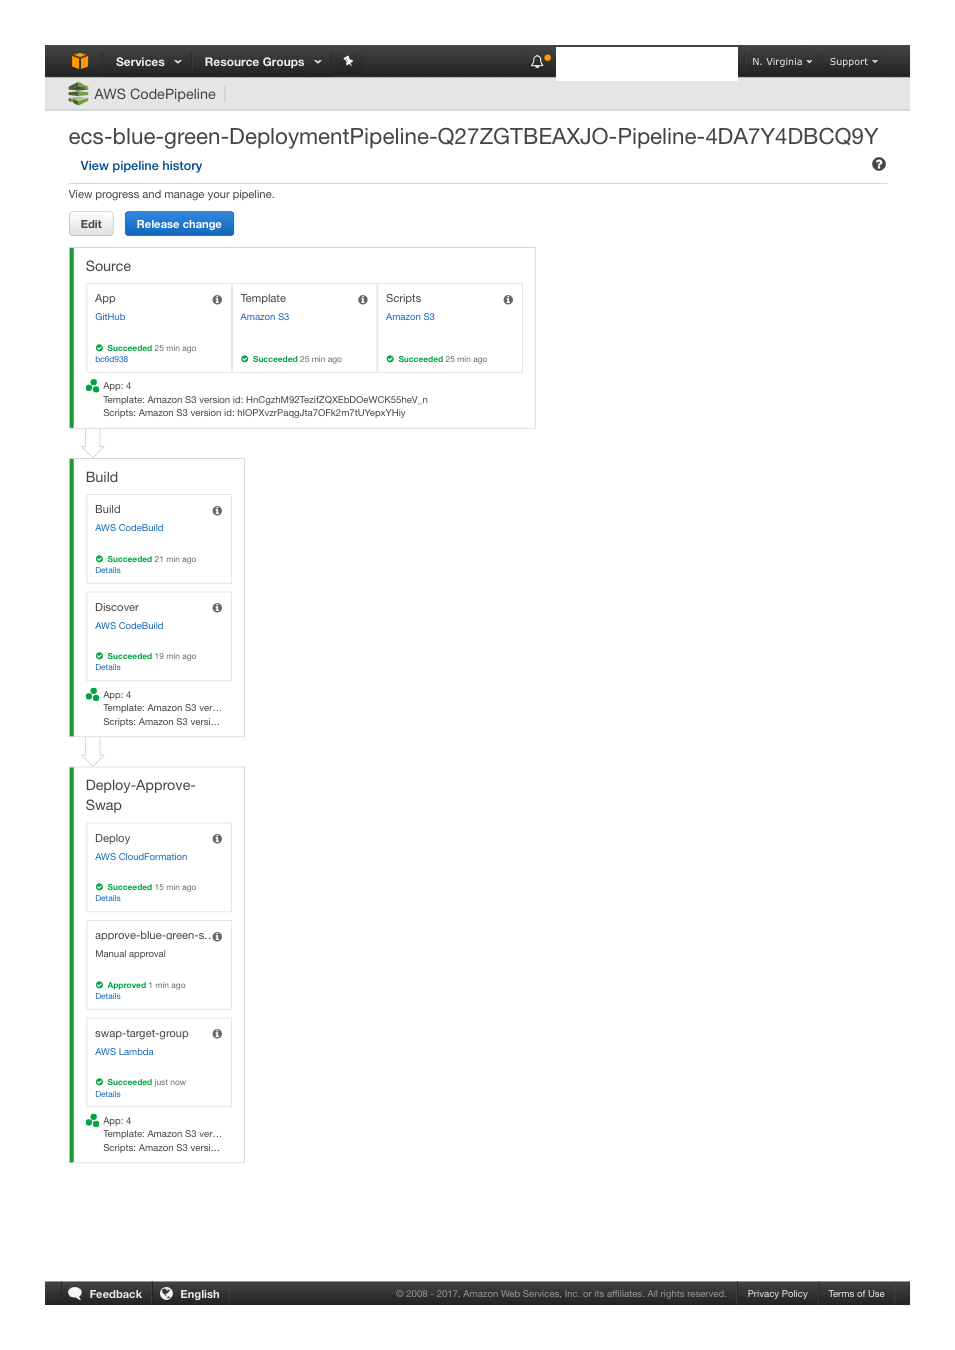
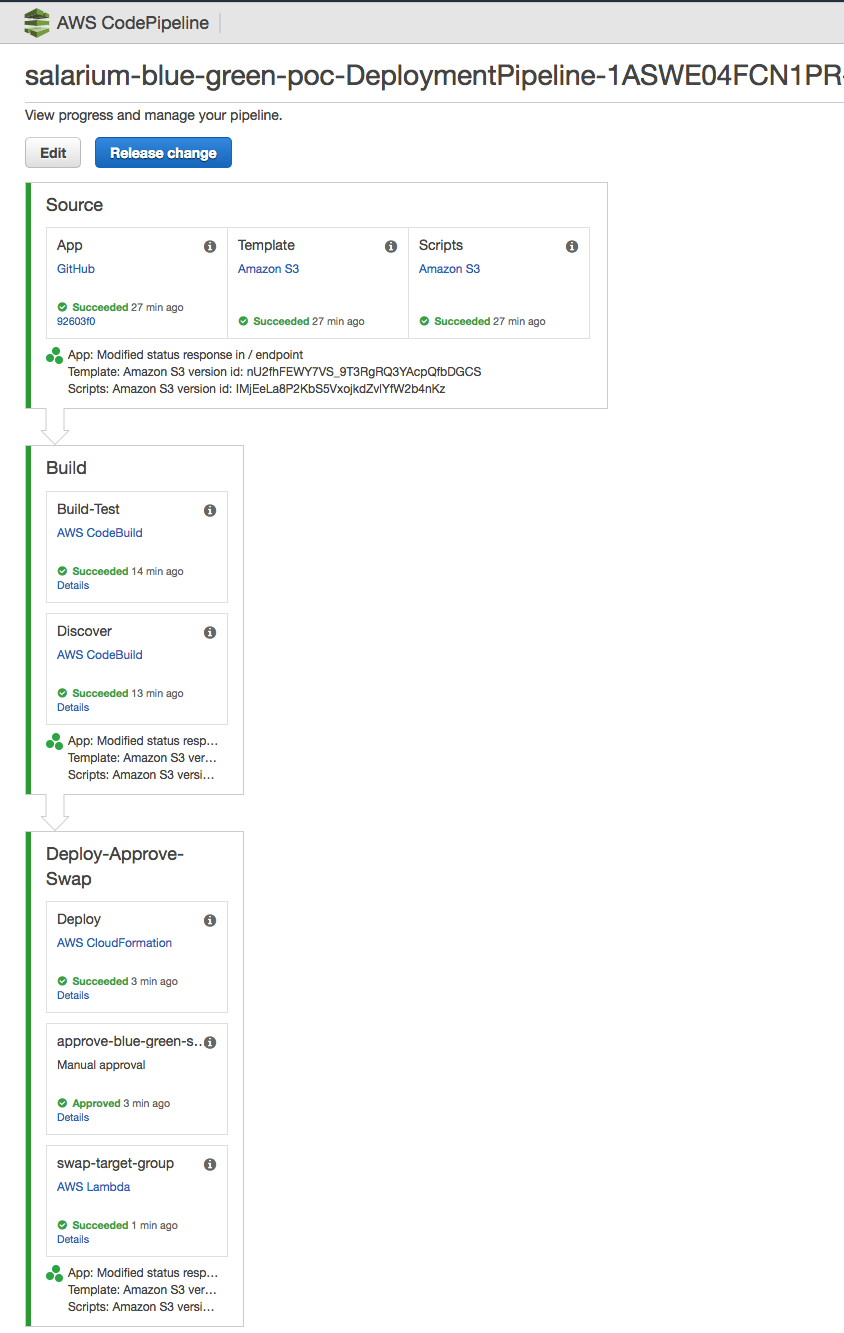
Added Unit Tests to Build stage

diff --git a/scripts/deployer.py b/scripts/deployer.py
@@ -17,7 +17,7 @@ elb_client = boto3.client('elbv2')
 describe_elb_response = None
 
 def handler():
-    """ Main handler as an entry point of code. Handler controls the sequence of methods to call.No inputs required. 
+    """ Main handler as an entry point of code. Handler controls the sequence of methods to call.No inputs required.
     As this runs in AWS CodeBuild, the script gets all the values from the environment variables in codebuild.
         1. Retrieve artifact (build.json) from the previous stage (CodeBuild phase, which builds application container images)
         2. Check if the load balancer exists. Name of the ELB is fed through environment variable by the pipeline.
@@ -50,7 +50,7 @@ def check_elb_exists():
 
                 Raises: None, as we dont want to stop script execution. If the code reaches exception block, it means
                 that the load balancer does not exists.
-                
+
                 Returns:
                     Boolean, True if Load Balancer Exists, False, if Load balancer does not exists
 
@@ -73,7 +73,7 @@ def find_beta_targetgroup():
                     beta_sha: Sha or the image id running on target group at port 8080
                     live_identifier : tag key value of the target group, running on port 80 with KeyName as "Identifier"
                     live_sha: Sha or the image id running on target group at port 80
-                    
+
 
                 Raises:
                     Exception: Any exception thrown by handler
@@ -113,7 +113,7 @@ def find_beta_image_identifier(targetgrouparn):
                 Returns:
                     identifier : tag key value of the target group , with KeyName as "Identifier"
                     sha: Sha or the image id running on target group
-                    
+
                 Raises:
                     Exception: Any exception thrown by handler
 
@@ -133,7 +133,7 @@ def find_beta_image_identifier(targetgrouparn):
 def get_build_artifact_id(build_id):
     """Get artifact (build.json) from the build project . We are making this as an additional call to get the build.json
     which already contains the new built repository ECR path. We could have consolidated this script and executed in the build
-    phase, but as codebuild accepts the input from one source only (scripts and application code are in different sources), thats 
+    phase, but as codebuild accepts the input from one source only (scripts and application code are in different sources), thats
     why an additional call to retrieve build.json from a different build project.
 
                     Args:
@@ -189,7 +189,7 @@ def get_build_execution_id():
     for stage in response['stageStates']:
         if stage['stageName'] == 'Build':
             for actionstate in stage['actionStates']:
-                if actionstate['actionName'] == 'Build':
+                if actionstate['actionName'] == 'Build-Test':
                     return actionstate['latestExecution']['externalExecutionId']
 
 if __name__ == '__main__':
